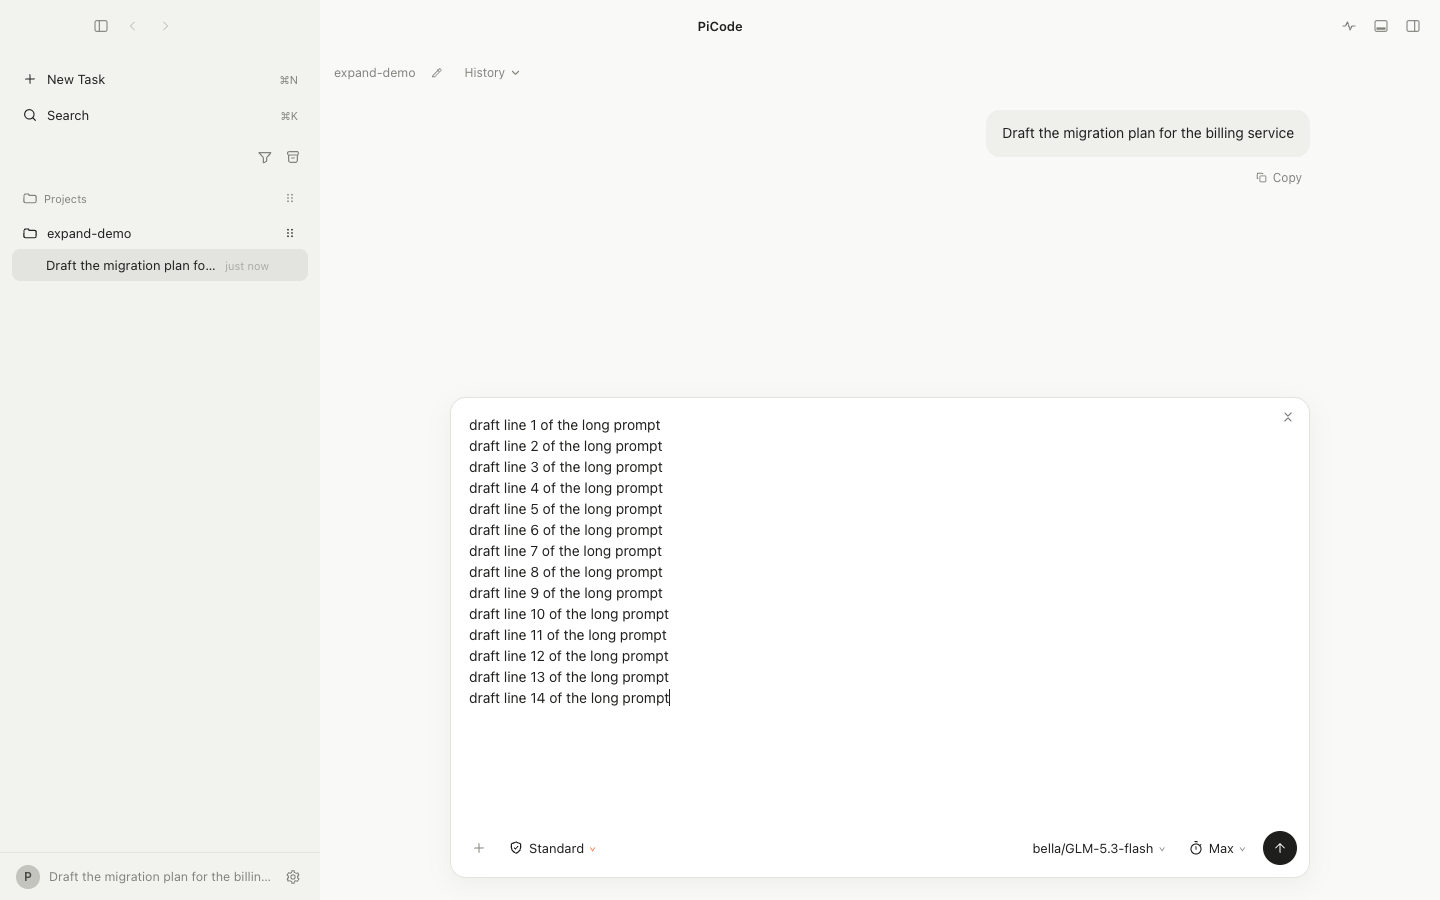
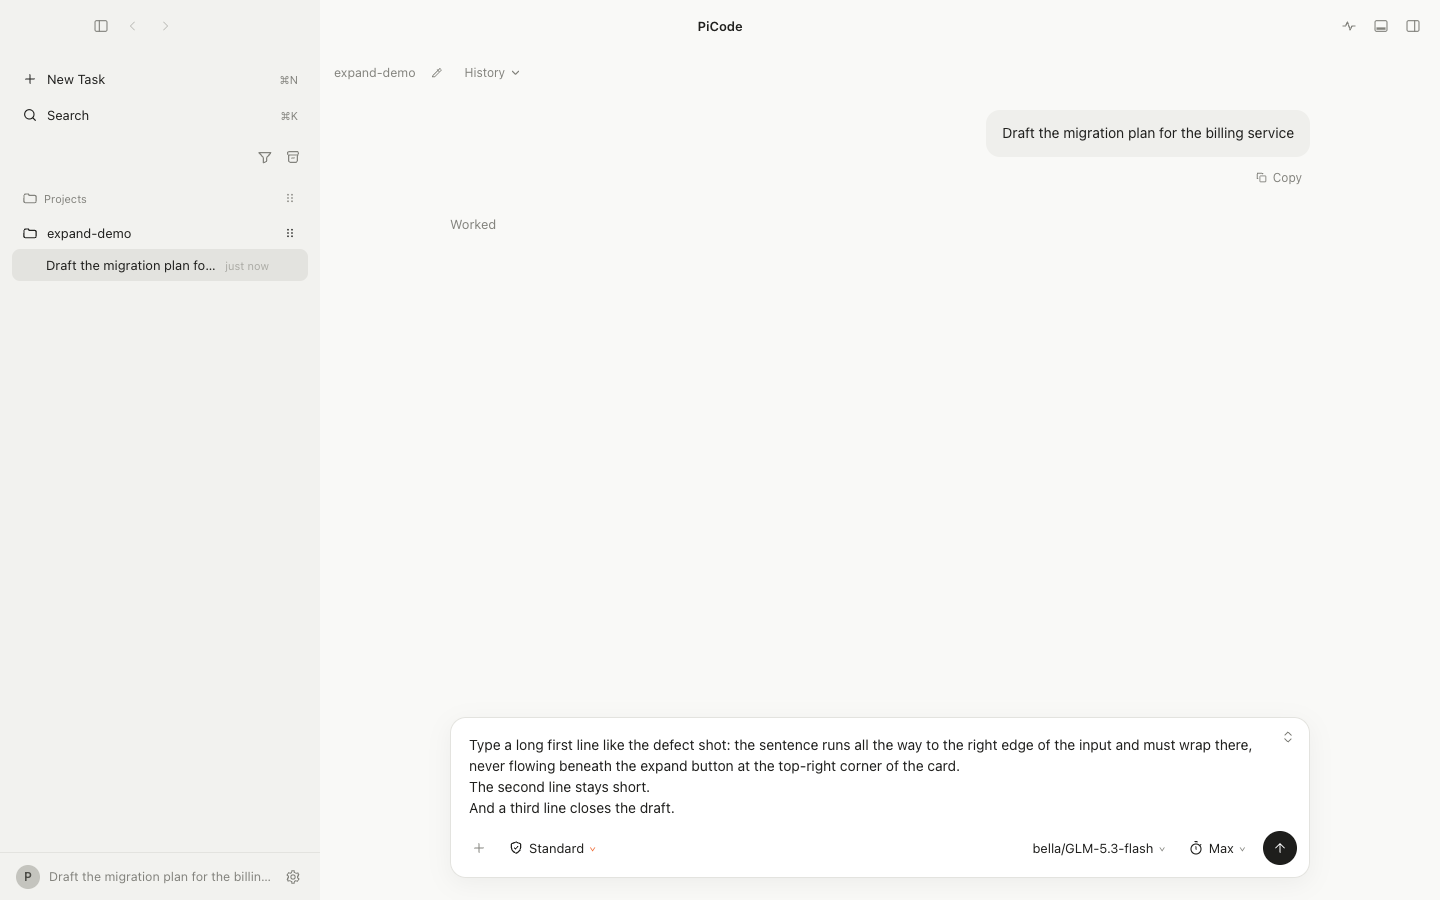
fix(58): composer covering — textarea right padding reserves the expand button zone
The first line and the caret flowed beneath the opaque top-right expand
button (pi15-composer-icon-covers-text): the button spans right offset
8 + width 26, the input's right padding was only 18px. Reserve the zone
with padding-right 44px (8 + 26 + 10 margin) — collapsed and expanded
alike (the expanded input is the same textarea); the button's approved
position and chrome are untouched; the shared component covers New Task
and the in-session composer automatically.

Visual harness (visual:expand) gains the two ticket-58 review frames
with asserted geometry probes (no CSS bytes): e1a-text-clearance (long
first line wrapping clear of the button) and e2b-expand-clearance (the
same rule while expanded). Staging retries across the boot-transition /
index-refresh remount flicker that can wipe the composer draft mid-run;
e1/e2 re-captured on the fixed padding.

Changed region(s): [[0.3125, 0.4667, 0.875, 0.9022]]

diff --git a/src/main/visual-expand.ts b/src/main/visual-expand.ts
@@ -4,12 +4,17 @@
  * harnesses it ASSERTS its probe results (exit 1 on any violation) and
  * captures the review frames:
  *
+ *   e1a-text-clearance  — ticket 58: collapsed composer, one long unbroken
+ *                         first line wrapping BEFORE the expand button's
+ *                         zone (the pi15-composer-icon-covers-text defect
+ *                         had it flowing beneath the opaque button)
  *   e1-expand-collapsed — the in-session composer with a long draft pinned
  *                         at the 160px auto-grow cap (internal scrolling),
  *                         the persistent top-right button in place
  *   e2-expand-open      — the expanded input: in place at about half the
  *                         main zone (clamped [280, 560]), transcript pushed
  *                         DOWN (no overlay), collapse glyph on the button
+ *   e2b-expand-clearance — ticket 58: the same clearance rule while expanded
  *
  * The boot New Task empty state is probed first (same shared component:
  * button present, 74px floor), then a seeded session is opened by a real
@@ -64,6 +69,93 @@ async function capture(win: BrowserWindow, name: string, state: string): Promise
 /** 14 short lines → ~314px of content, safely past the 160px cap. */
 const LONG_DRAFT = Array.from({ length: 14 }, (_, i) => `draft line ${i + 1} of the long prompt`).join('\n')
 
+/** Ticket 58: the defect shot (pi15-composer-icon-covers-text) is ordinary
+ * prose — a long first line fills the input to its right text boundary,
+ * which used to run UNDER the opaque expand button. So the frame reproduces
+ * it with natural prose: a long first line (its wrap point lands beside the
+ * button) plus two short lines. No unbreakable token on purpose —
+ * break-word moves an oversized token whole to the next line instead of
+ * splitting it at the boundary, which would leave line 1 short. */
+const CLEARANCE_DRAFT = [
+  'Type a long first line like the defect shot: the sentence runs all the way to the right edge of the input and must wrap there, never flowing beneath the expand button at the top-right corner of the card.',
+  'The second line stays short.',
+  'And a third line closes the draft.'
+].join('\n')
+
+/** Ticket 58: the combined frame probe — geometry, not CSS bytes. The chat
+ * view must be the settled top surface (no boot EmptyState overlay), the
+ * clearance draft must be intact (a view remount wipes the composer's
+ * local draft), the expand button must keep its approved top-right anchor
+ * on the card, the text boundary — right rect edge minus right padding —
+ * must sit at or left of the button's left edge, and the long first line
+ * must actually have wrapped into ≥4 visual lines (vacuously true while
+ * expanded, where the pinned height exceeds the content — the premise
+ * carries over from the collapsed staging). */
+function clearanceFrameProbe(expanded: boolean): string {
+  const stateClause = expanded
+    ? `if (btn.getAttribute('aria-expanded') !== 'true') return false`
+    : `if (btn.getAttribute('aria-expanded') !== 'false') return false`
+  return `(() => {
+  if (document.querySelector('.empty-state') !== null) return false
+  const ta = document.querySelector('.chat-dock textarea.composer-input')
+  const btn = document.querySelector('.chat-dock .composer-expand')
+  const card = document.querySelector('.chat-dock .composer')
+  if (!(ta instanceof HTMLTextAreaElement) || !(btn instanceof HTMLElement) || !(card instanceof HTMLElement)) return false
+  ${stateClause}
+  if (ta.value !== ${JSON.stringify(CLEARANCE_DRAFT)}) return false
+  const taR = ta.getBoundingClientRect()
+  const btnR = btn.getBoundingClientRect()
+  const cardR = card.getBoundingClientRect()
+  if (cardR.right - btnR.right > 12 || btnR.top - cardR.top > 12) return false
+  if (taR.right - parseFloat(getComputedStyle(ta).paddingRight) > btnR.left + 0.5) return false
+  const cs = getComputedStyle(ta)
+  const lines = (ta.scrollHeight - parseFloat(cs.paddingTop) - parseFloat(cs.paddingBottom)) / parseFloat(cs.lineHeight)
+  return lines >= 3.5
+})()`
+}
+
+/** Ticket 58: stage the clearance draft and wait until the frame's state
+ * HOLDS — the resume boot transition and the index refresh can remount the
+ * view tree for a render pass, wiping the composer's local draft, so the
+ * probe must survive a stability window and the staging retries (re-set the
+ * value, re-expand) before the capture. Throws if the state never settles. */async function stageClearanceFrame(win: BrowserWindow, expanded: boolean): Promise<void> {
+  const setScript = `(() => {
+    const ta = document.querySelector('.chat-dock textarea.composer-input')
+    if (!(ta instanceof HTMLTextAreaElement)) return false
+    const setter = Object.getOwnPropertyDescriptor(HTMLTextAreaElement.prototype, 'value').set
+    setter.call(ta, ${JSON.stringify(CLEARANCE_DRAFT)})
+    ta.dispatchEvent(new Event('input', { bubbles: true }))
+    return true
+  })()`
+  const expandScript = `(() => {
+    const btn = document.querySelector('.chat-dock .composer-expand')
+    if (!btn || btn.getAttribute('aria-expanded') === 'true') return true
+    btn.dispatchEvent(new MouseEvent('click', { bubbles: true }))
+    return true
+  })()`
+  const probe = clearanceFrameProbe(expanded)
+  for (let attempt = 0; ; attempt++) {
+    await win.webContents.executeJavaScript(setScript)
+    if (expanded) await win.webContents.executeJavaScript(expandScript)
+    // Stability window: the probe must hold across consecutive polls — a
+    // one-pass remount flicker resets the chain.
+    let held = 0
+    for (let waited = 0; waited < 5_000 && held < 3; waited += 150) {
+      const ok = (await win.webContents.executeJavaScript(probe).catch(() => false)) as boolean
+      held = ok ? held + 1 : 0
+      await sleep(150)
+    }
+    if (held >= 3) return
+    if (attempt >= 5) {
+      throw new Error(
+        expanded
+          ? 'expand visual: the expanded clearance frame never settled (state kept flickering)'
+          : 'expand visual: the collapsed clearance frame never settled (state kept flickering)'
+      )
+    }
+  }
+}
+
 export function startExpandVisualIfEnabled(getWindow: () => BrowserWindow | null): void {
   if (!expandVisualEnabled()) return
 
@@ -113,6 +205,12 @@ export function startExpandVisualIfEnabled(getWindow: () => BrowserWindow | null
         throw new Error('expand visual: the chat view composer never opened')
       }
 
+      // Ticket 58: the long first line must fill to the text boundary and
+      // wrap BEFORE the expand button's zone (frame e1a).
+      const chatTa = `document.querySelector('.chat-dock textarea.composer-input')`
+      await stageClearanceFrame(win, false)
+      await capture(win, 'e1a-text-clearance', 'long first line wraps clear of the button')
+
       // Long draft → the 160px cap with internal scrolling.
       await win.webContents.executeJavaScript(`(() => {
         const ta = document.querySelector('.chat-dock textarea.composer-input')
@@ -123,7 +221,6 @@ export function startExpandVisualIfEnabled(getWindow: () => BrowserWindow | null
         ta.focus()
         return true
       })()`)
-      const chatTa = `document.querySelector('.chat-dock textarea.composer-input')`
       if (!(await waitFor(getWindow, `${chatTa}.clientHeight === 160 && ${chatTa}.scrollHeight > ${chatTa}.clientHeight`, 5_000))) {
         throw new Error('expand visual: the long draft never pinned the 160px auto-grow cap')
       }
@@ -151,6 +248,12 @@ export function startExpandVisualIfEnabled(getWindow: () => BrowserWindow | null
         throw new Error('expand visual: the expansion never pushed the transcript down at the projected half-zone height')
       }
       await capture(win, 'e2-expand-open', 'expanded in place, transcript pushed down')
+
+      // Ticket 58: the same rule while expanded — restage the long first
+      // line at the expanded height (the staging helper re-expands if a
+      // remount collapsed the composer and re-sets the draft if wiped).
+      await stageClearanceFrame(win, true)
+      await capture(win, 'e2b-expand-clearance', 'expanded: the wrapped line still clears the button')
 
       console.log('VISUAL expand done')
       app.exit(0)

diff --git a/src/renderer/src/styles/app.css b/src/renderer/src/styles/app.css
@@ -1128,7 +1128,12 @@ kbd {
   border: none;
   outline: none;
   background: transparent;
-  padding: 16px 18px 4px;
+  /* Ticket 58 遮盖修复: the right padding reserves the expand button's
+     top-right zone (right offset 8 + width 26 + margin ≈ 44) — the first
+     line and the caret wrap before the button, collapsed and expanded
+     alike (the expanded input is the same textarea); the button's
+     approved position and chrome are untouched. */
+  padding: 16px 44px 4px 18px;
   font-size: 14px;
   line-height: 1.5;
   color: var(--text-primary);
